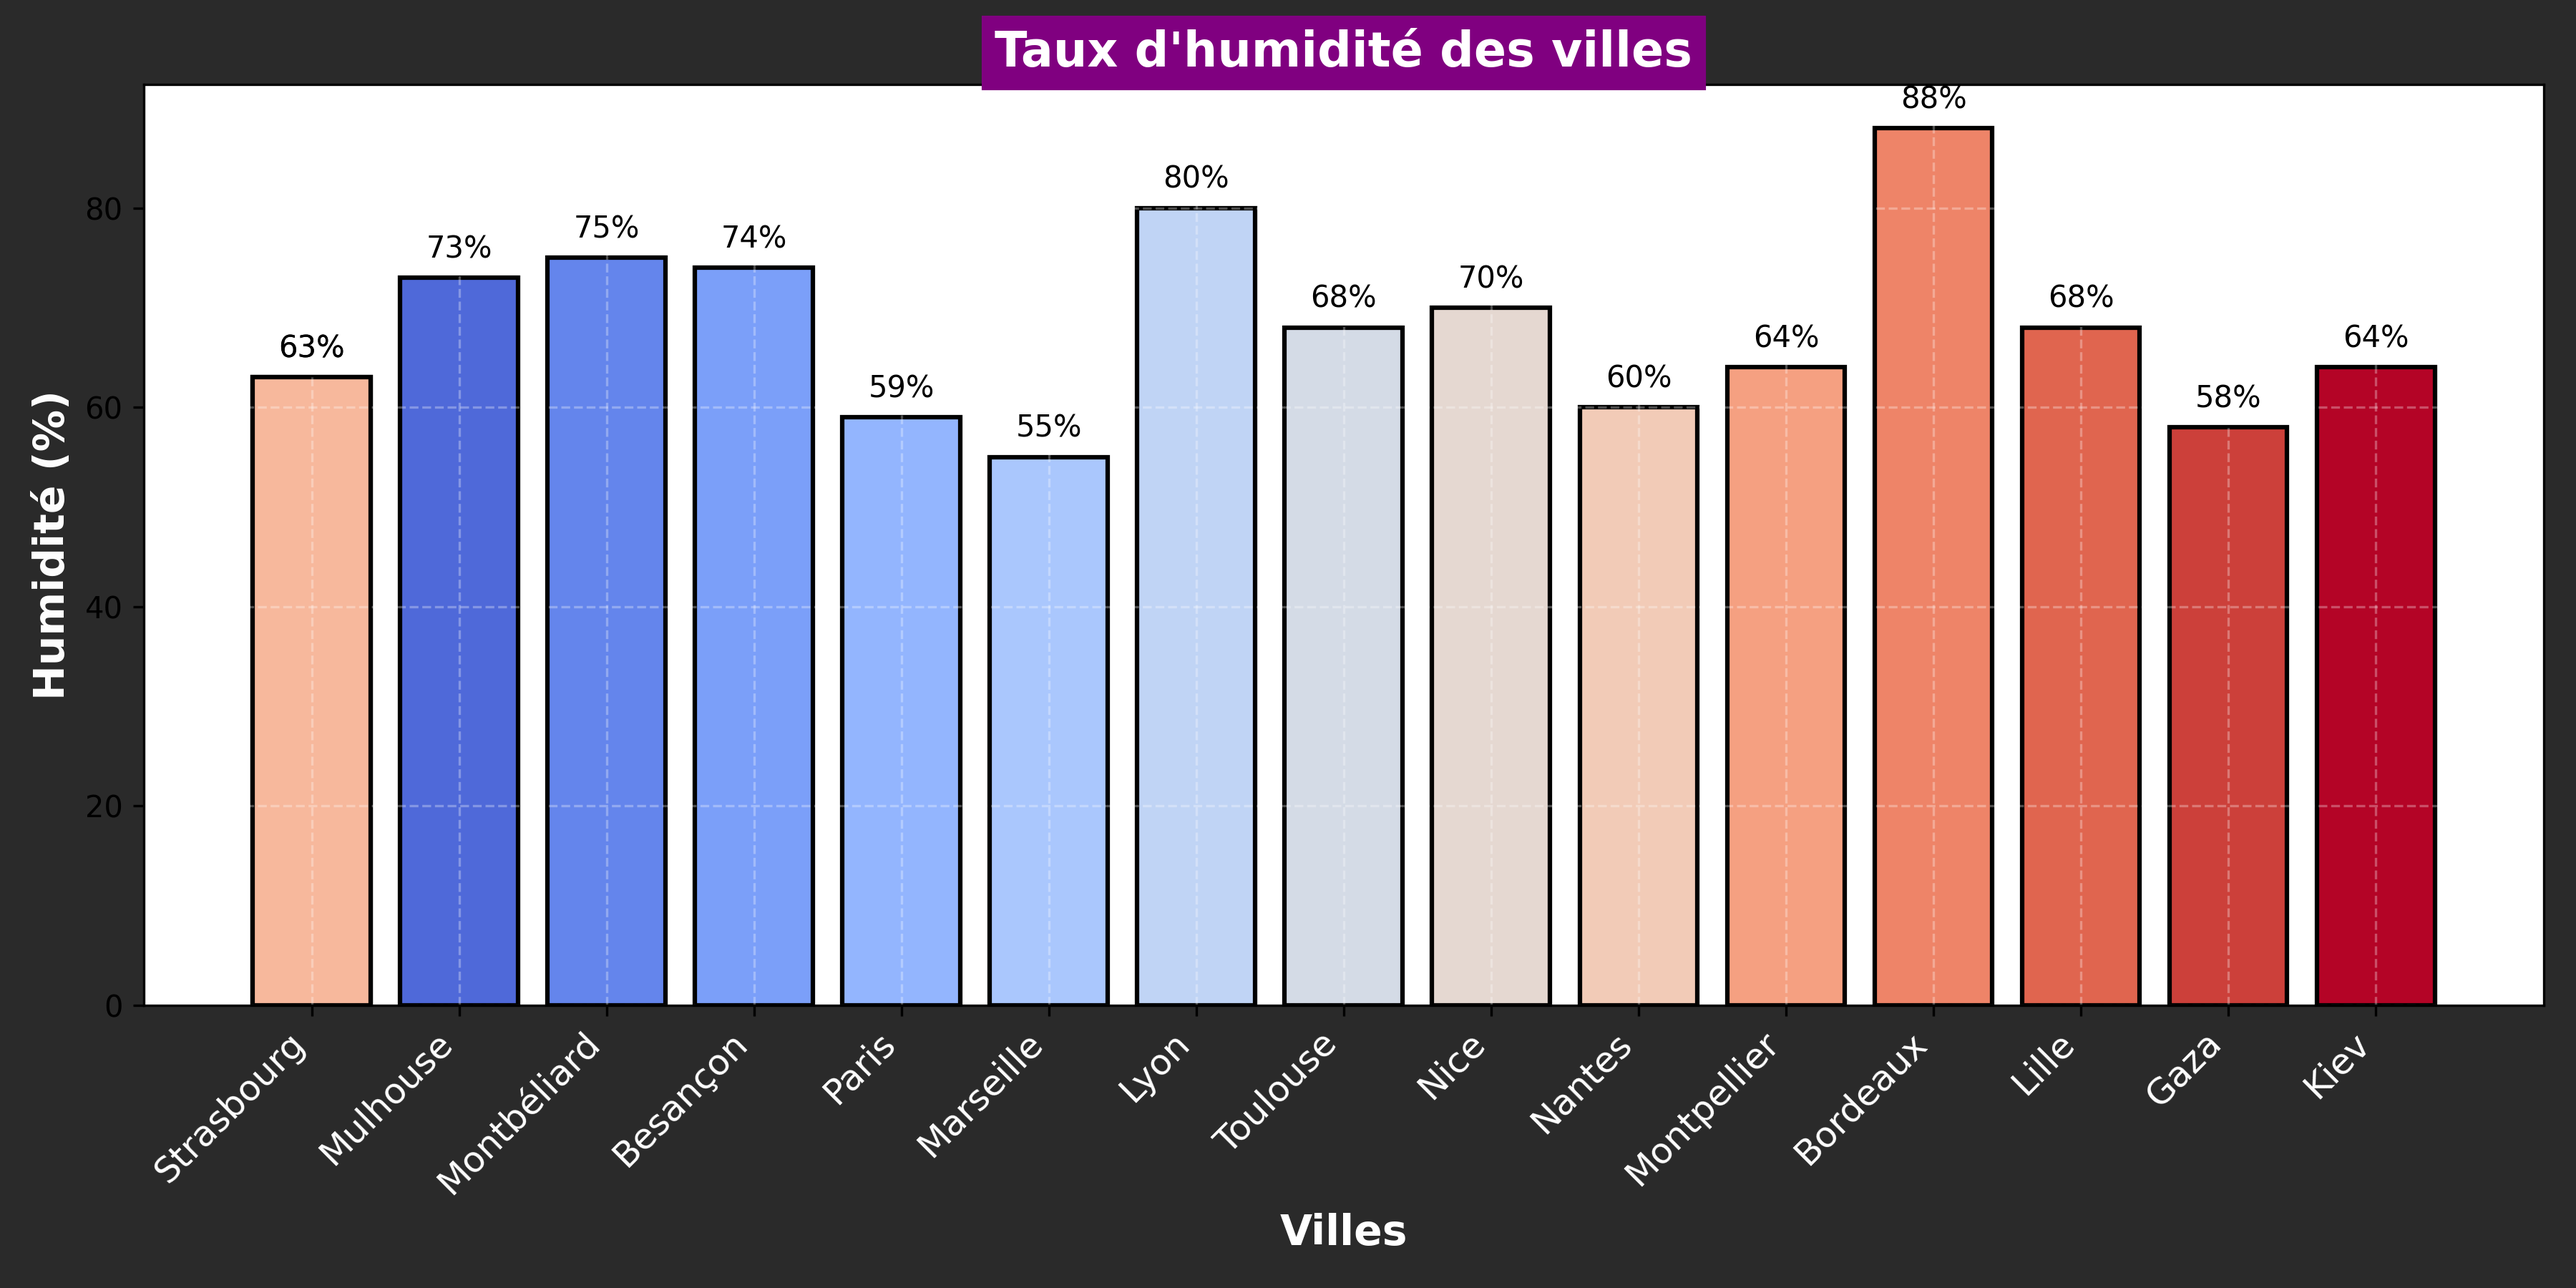
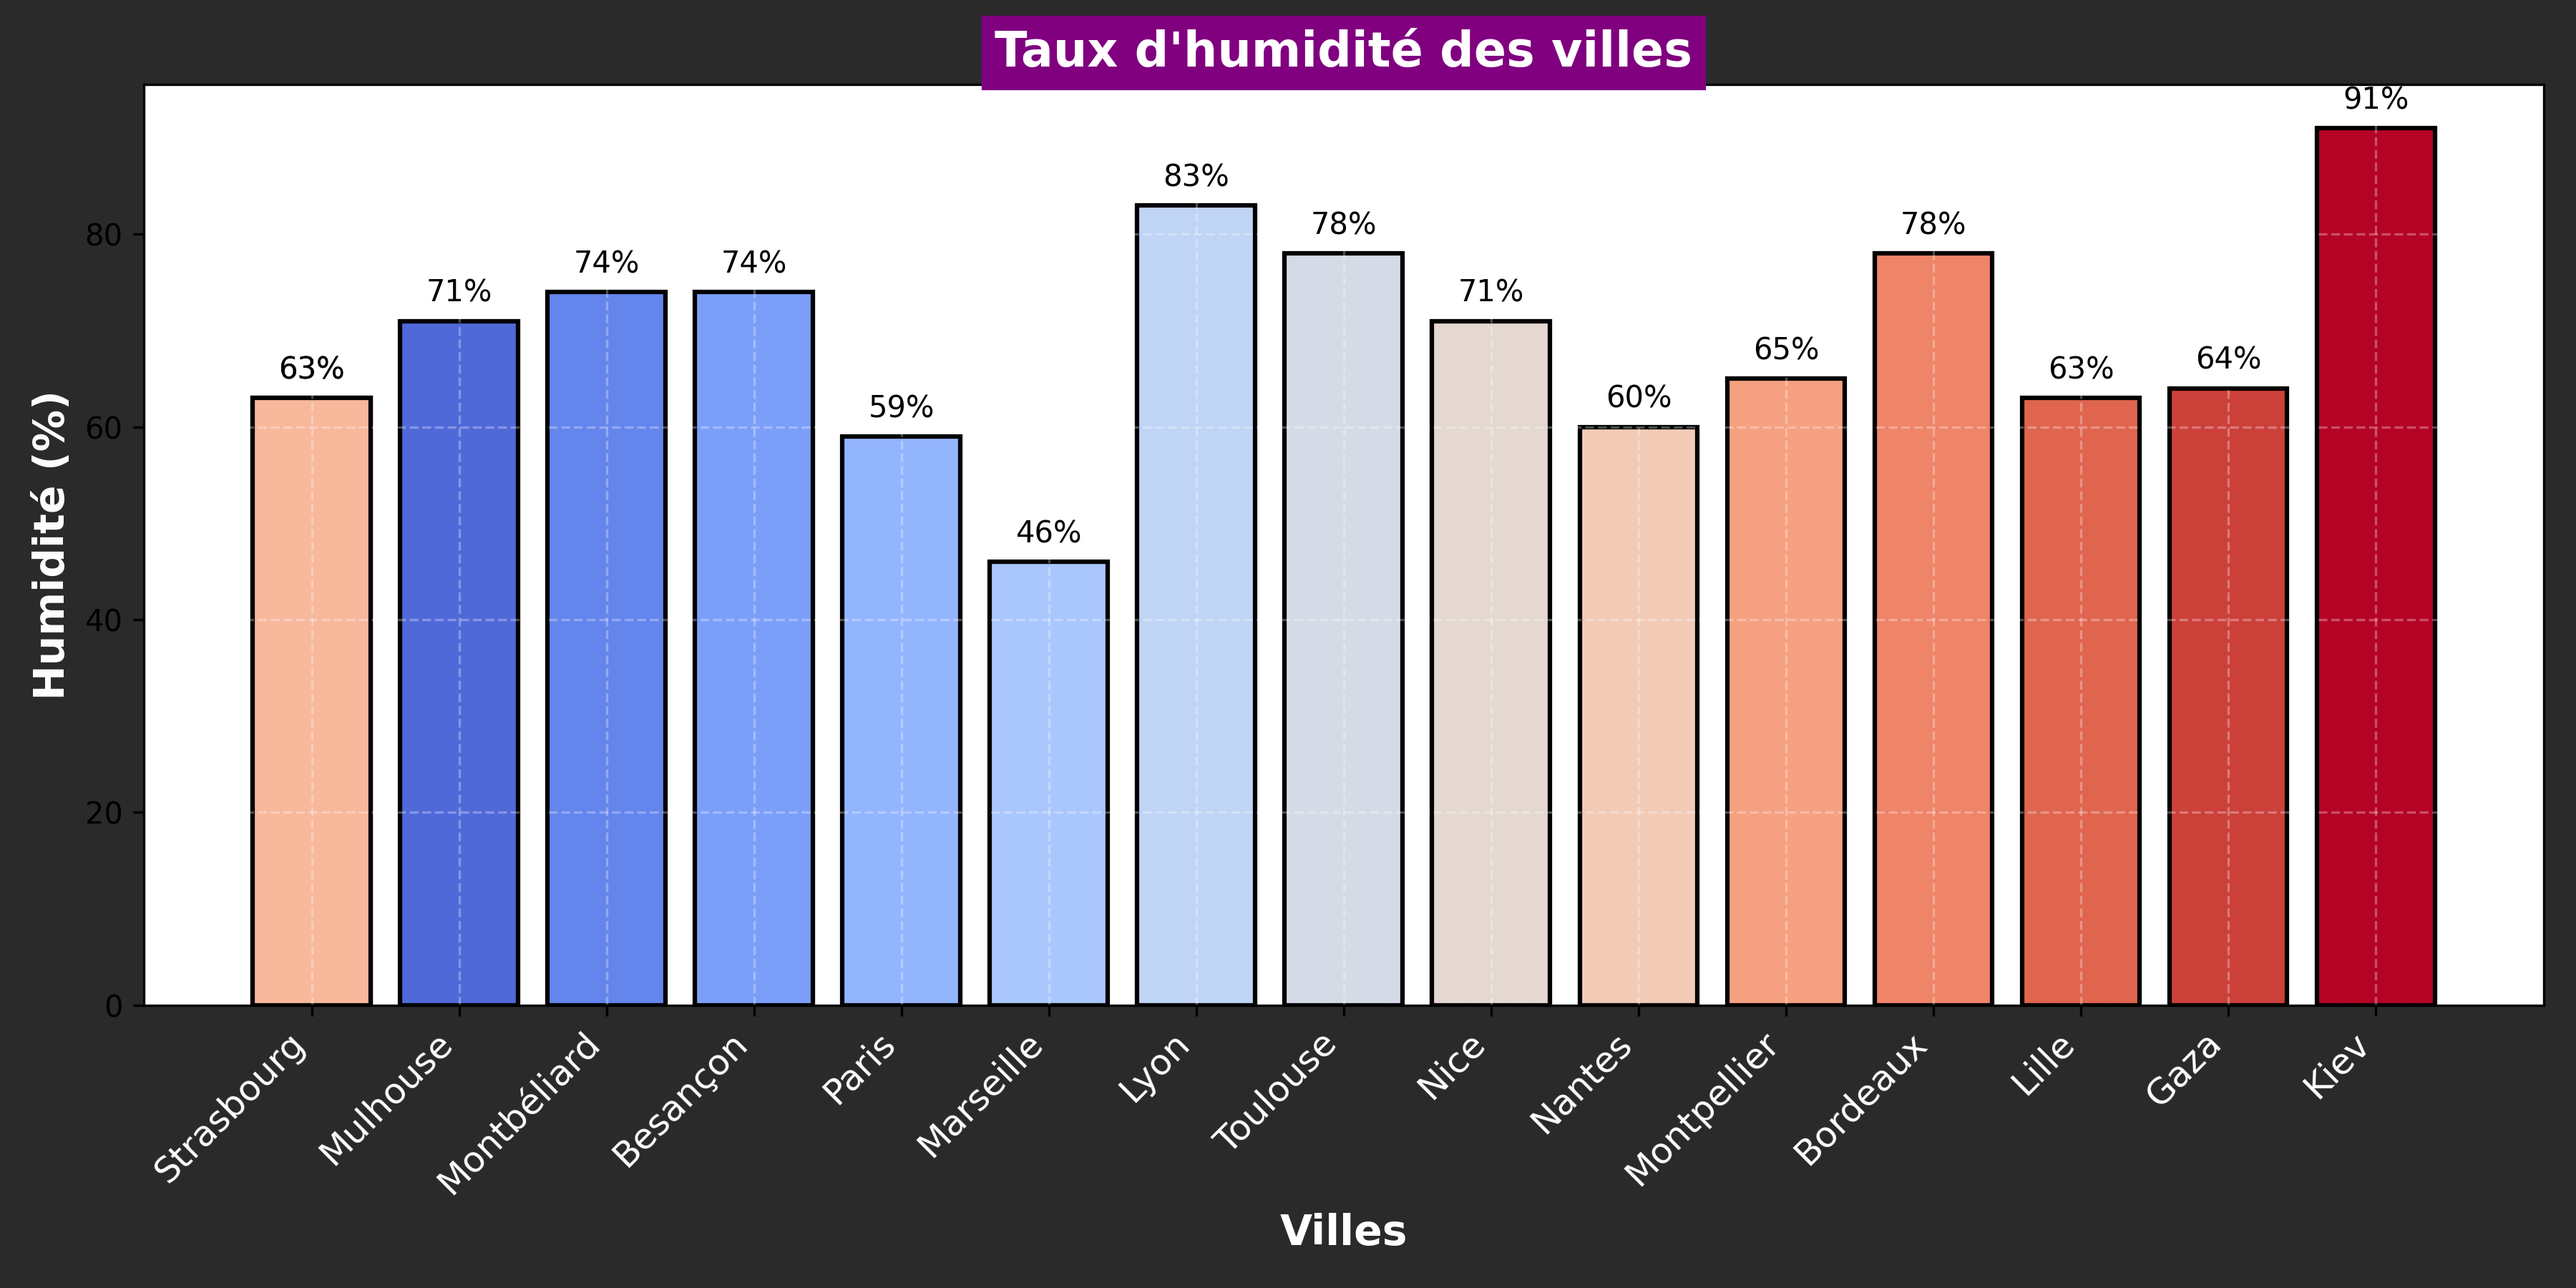
Mise à jour de la météo et ajout du graphique d'humidité

diff --git a/README.md b/README.md
@@ -24,103 +24,103 @@ Ce repo contient plusieurs workflows GitHub Actions :
 ## Météo actuelle :
 ## Météo des grandes villes + Gaza et Kiev 🌍
 
-🕒 Mise à jour : 20/06/2025 08:18:28
+🕒 Mise à jour : 21/06/2025 08:16:25
 
 ### 🌍 Strasbourg ☀
 **Conditions :** ciel dégagé
-**Température :** 18.94°C
+**Température :** 17.96°C
 **Humidité :** 63%
-**Vent :** 5.14 m/s
+**Vent :** 2.06 m/s
 
-### 🌍 Mulhouse ☀
-**Conditions :** ciel dégagé
-**Température :** 18.89°C
-**Humidité :** 73%
-**Vent :** 1.54 m/s
+### 🌍 Mulhouse 🌥
+**Conditions :** partiellement nuageux
+**Température :** 18.69°C
+**Humidité :** 71%
+**Vent :** 0.89 m/s
 
 ### 🌍 Montbéliard ☀
 **Conditions :** ciel dégagé
-**Température :** 20.54°C
-**Humidité :** 75%
-**Vent :** 4.48 m/s
+**Température :** 19.99°C
+**Humidité :** 74%
+**Vent :** 3.44 m/s
 
 ### 🌍 Besançon ☀
 **Conditions :** ciel dégagé
-**Température :** 17.72°C
+**Température :** 19.94°C
 **Humidité :** 74%
-**Vent :** 2.27 m/s
+**Vent :** 0.44 m/s
 
 ### 🌍 Paris ☀
 **Conditions :** ciel dégagé
-**Température :** 21.42°C
+**Température :** 21.57°C
 **Humidité :** 59%
-**Vent :** 4.12 m/s
+**Vent :** 1.54 m/s
 
 ### 🌍 Marseille ☀
 **Conditions :** ciel dégagé
-**Température :** 22.51°C
-**Humidité :** 55%
-**Vent :** 1.58 m/s
+**Température :** 24.73°C
+**Humidité :** 46%
+**Vent :** 1.65 m/s
 
 ### 🌍 Lyon ☀
 **Conditions :** ciel dégagé
-**Température :** 18.63°C
-**Humidité :** 80%
-**Vent :** 0.66 m/s
+**Température :** 18.74°C
+**Humidité :** 83%
+**Vent :** 0.34 m/s
 
-### 🌍 Toulouse ☀
-**Conditions :** ciel dégagé
-**Température :** 21.99°C
-**Humidité :** 68%
+### 🌍 Toulouse 🌥
+**Conditions :** peu nuageux
+**Température :** 20.99°C
+**Humidité :** 78%
 **Vent :** 1.54 m/s
 
-### 🌍 Nice 🌥
-**Conditions :** partiellement nuageux
+### 🌍 Nice ☀
+**Conditions :** ciel dégagé
 **Température :** 19.72°C
-**Humidité :** 70%
-**Vent :** 0.55 m/s
+**Humidité :** 71%
+**Vent :** 1.1 m/s
 
 ### 🌍 Nantes ☀
 **Conditions :** ciel dégagé
-**Température :** 22.96°C
+**Température :** 23.96°C
 **Humidité :** 60%
 **Vent :** 2.57 m/s
 
 ### 🌍 Strasbourg ☀
 **Conditions :** ciel dégagé
-**Température :** 18.94°C
+**Température :** 17.96°C
 **Humidité :** 63%
-**Vent :** 5.14 m/s
+**Vent :** 2.06 m/s
 
 ### 🌍 Montpellier ☀
 **Conditions :** ciel dégagé
 **Température :** 25.28°C
-**Humidité :** 64%
-**Vent :** 1.54 m/s
+**Humidité :** 65%
+**Vent :** 2.06 m/s
 
-### 🌍 Bordeaux 🌥
-**Conditions :** nuageux
-**Température :** 20.15°C
-**Humidité :** 88%
-**Vent :** 1.03 m/s
+### 🌍 Bordeaux ☀
+**Conditions :** ciel dégagé
+**Température :** 22.15°C
+**Humidité :** 78%
+**Vent :** 0.51 m/s
 
 ### 🌍 Lille ☀
 **Conditions :** ciel dégagé
-**Température :** 19.12°C
-**Humidité :** 68%
-**Vent :** 3.09 m/s
+**Température :** 18.13°C
+**Humidité :** 63%
+**Vent :** 1.54 m/s
 
 ### 🌍 Gaza ☀
 **Conditions :** ciel dégagé
-**Température :** 27.46°C
-**Humidité :** 58%
-**Vent :** 3.08 m/s
+**Température :** 27.31°C
+**Humidité :** 64%
+**Vent :** 3.18 m/s
 
 ### 🌍 Kiev 🌥
-**Conditions :** partiellement nuageux
-**Température :** 13.29°C
-**Humidité :** 64%
-**Vent :** 5.57 m/s
+**Conditions :** couvert
+**Température :** 15.4°C
+**Humidité :** 91%
+**Vent :** 0.89 m/s
 
 <p align='center'><img src='https://raw.githubusercontent.com/khoa083/khoa/main/Khoa_ne/img/Rainbow.gif' width='100%' style='border-radius: 5px; border: 3px solid #39FF14; box-shadow: 0 0 10px #39FF14, 0 0 20px #39FF14;' /></p>
 
